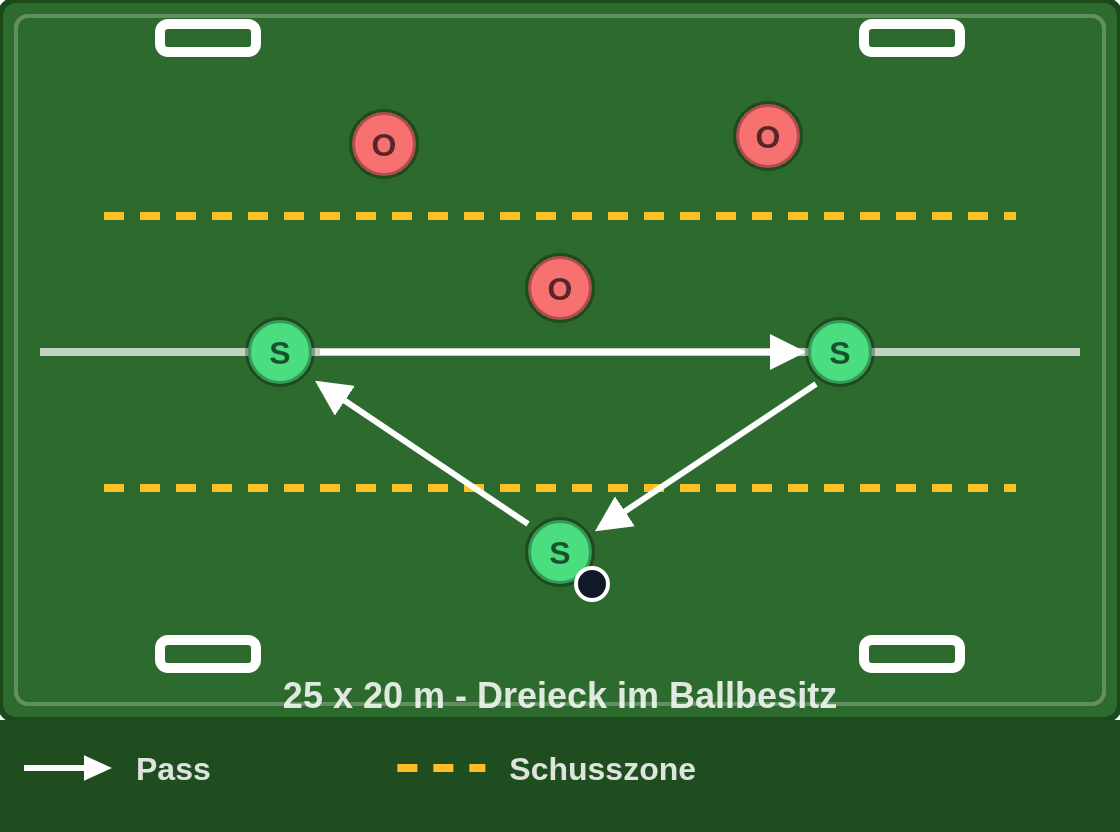
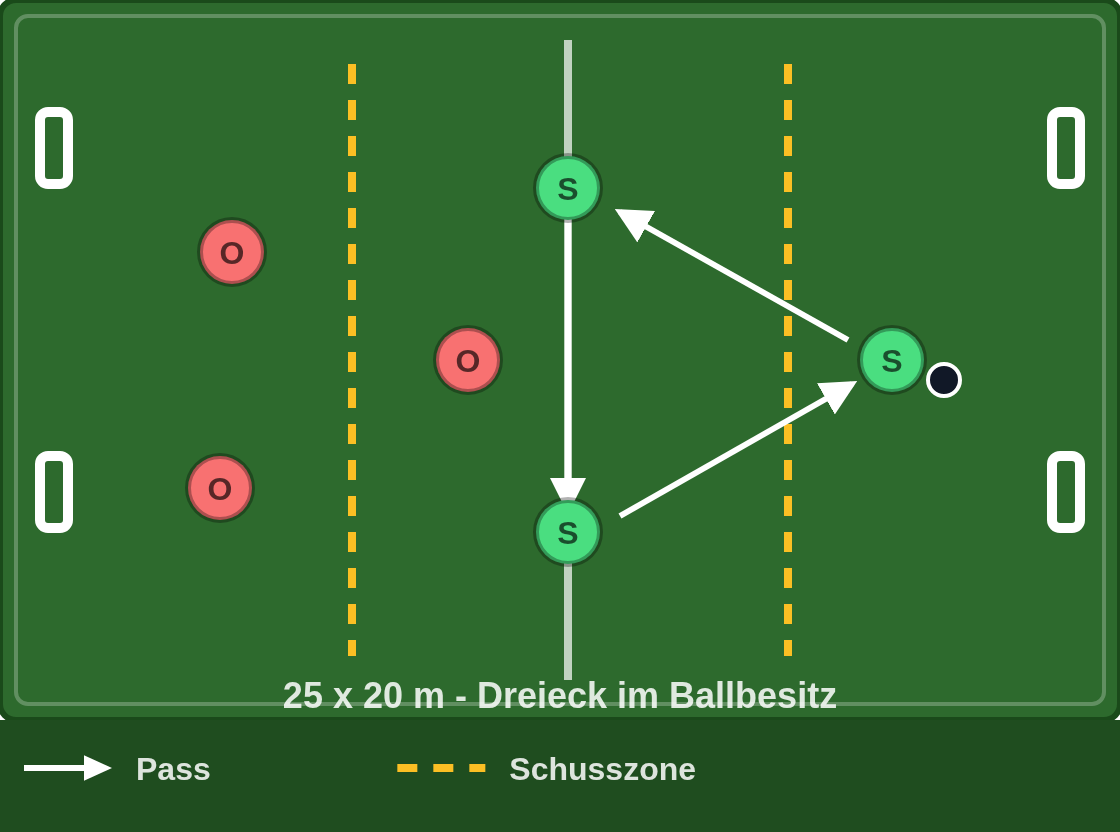
v629: Auftakt ruckelt nicht mehr, Feld 25 × 20 m von Tor zu Tor (#218)
* v629: Auftakt ruckelt nicht mehr, Feld 25 × 20 m von Tor zu Tor

Claude-Session: https://claude.ai/code/session_01MHgn9TPz4fJRqUSv74pZiR

* v629: Lehrgangsskizze Dreieck neu exportiert

Claude-Session: https://claude.ai/code/session_01MHgn9TPz4fJRqUSv74pZiR

---------

diff --git a/intro.js b/intro.js
@@ -35,22 +35,31 @@
       "#adler-intro .ai-ring{position:relative;width:148px;height:148px;display:flex;align-items:center;justify-content:center}"+
       "#adler-intro .ai-ring:before{content:'';position:absolute;inset:0;border-radius:50%;border:3px solid rgba(255,255,255,.55);opacity:0;"+
         "animation:adlerIntroRing .9s ease-out 1.05s 2}"+
-      "#adler-intro .ai-ring{perspective:700px}"+
+      /* v629 PO: „Die Animation in der Eltern-App ruckelt etwas.“ Flug und Landen lagen beide als
+         transform auf dem Bild; zwei solche Animationen auf einem Element kann der Browser nicht an
+         die Grafik abgeben, er rechnet sie dann im Hauptfaden – der in diesen Sekunden die App lädt.
+         Deshalb fliegt das Bild, und die Hülle .ai-flug landet bzw. atmet. Der Schimmer wandert
+         per transform statt per background-position aus demselben Grund. */
+      "#adler-intro .ai-flug{perspective:700px;width:132px;height:132px;border-radius:50%}"+
+      "#adler-intro img{will-change:transform,opacity}"+
       "#adler-intro img{width:132px;height:132px;object-fit:cover;border-radius:50%;background:#fff;box-shadow:0 0 0 4px rgba(255,255,255,.9);filter:drop-shadow(0 10px 24px rgba(0,0,0,.35))}"+
       /* Trainer: Schuss */
-      "#adler-intro.ai-schuss img{animation:adlerIntroFlugSchuss 1.2s cubic-bezier(.15,.7,.3,1) both,adlerIntroAtem 1.3s ease-in-out 1.25s}"+
+      "#adler-intro.ai-schuss img{animation:adlerIntroFlugSchuss 1.2s cubic-bezier(.15,.7,.3,1) both}#adler-intro.ai-schuss .ai-flug{animation:adlerIntroAtem 1.3s ease-in-out 1.25s}"+
       "@keyframes adlerIntroFlugSchuss{0%{transform:scale(.05) rotate(-720deg);opacity:0}20%{opacity:1}82%{transform:scale(1.08) rotate(10deg);opacity:1}92%{transform:scale(.98) rotate(-4deg)}100%{transform:none;opacity:1}}"+
       /* Eltern: Münzwurf */
-      "#adler-intro.ai-muenze img{animation:adlerIntroFlugMuenze 1.25s cubic-bezier(.25,.8,.35,1) both,adlerIntroLanden .4s ease-out 1.25s}"+
+      "#adler-intro.ai-muenze img{animation:adlerIntroFlugMuenze 1.25s cubic-bezier(.25,.8,.35,1) both}#adler-intro.ai-muenze .ai-flug{animation:adlerIntroLanden .4s ease-out 1.25s}"+
       "@keyframes adlerIntroFlugMuenze{0%{transform:translate(-40vw,-30vh) rotateY(0deg) scale(.3);opacity:0}15%{opacity:1}"+
         "55%{transform:translate(-12vw,-22vh) rotateY(500deg) scale(.85)}100%{transform:translate(0,0) rotateY(720deg) scale(1);opacity:1}}"+
       "@keyframes adlerIntroLanden{0%{transform:translateY(0) scale(1)}40%{transform:translateY(7px) scale(.96,1.03)}100%{transform:none}}"+
-      "#adler-intro .ai-glanz{position:absolute;left:8px;top:8px;width:132px;height:132px;border-radius:50%;pointer-events:none;opacity:0;"+
-        "background:linear-gradient(110deg,transparent 35%,rgba(255,255,255,.8) 50%,transparent 65%);background-size:260% 100%;background-position:160% 0}"+
-      "#adler-intro.ai-muenze .ai-glanz{animation:adlerIntroGlanz .8s ease-in-out 1.5s both}"+
-      "@keyframes adlerIntroGlanz{0%{opacity:1;background-position:160% 0}100%{opacity:1;background-position:-60% 0}}"+
+      "#adler-intro .ai-glanz{position:absolute;left:8px;top:8px;width:132px;height:132px;border-radius:50%;pointer-events:none;opacity:0;overflow:hidden}"+
+      "#adler-intro .ai-glanz:after{content:'';position:absolute;top:0;bottom:0;left:0;width:70%;transform:translateX(-110%);"+
+        "background:linear-gradient(110deg,transparent 0%,rgba(255,255,255,.8) 50%,transparent 100%)}"+
+      "#adler-intro.ai-muenze .ai-glanz{animation:adlerIntroGlanz .8s linear 1.5s both}"+
+      "#adler-intro.ai-muenze .ai-glanz:after{animation:adlerIntroGlanzZug .8s ease-in-out 1.5s both}"+
+      "@keyframes adlerIntroGlanz{0%,90%{opacity:1}100%{opacity:0}}"+
+      "@keyframes adlerIntroGlanzZug{from{transform:translateX(-110%)}to{transform:translateX(160%)}}"+
       /* Kinder: Adlerflug mit Federn */
-      "#adler-intro.ai-adler img{animation:adlerIntroFlugAdler 1.35s cubic-bezier(.3,.7,.35,1) both,adlerIntroAtem 1.3s ease-in-out 1.4s}"+
+      "#adler-intro.ai-adler img{animation:adlerIntroFlugAdler 1.35s cubic-bezier(.3,.7,.35,1) both}#adler-intro.ai-adler .ai-flug{animation:adlerIntroAtem 1.3s ease-in-out 1.4s}"+
       "@keyframes adlerIntroFlugAdler{0%{transform:translate(-62vw,12vh) rotate(-200deg) scale(.4);opacity:0}15%{opacity:1}"+
         "50%{transform:translate(-16vw,-16vh) rotate(-60deg) scale(.8)}80%{transform:translate(5vw,3vh) rotate(12deg) scale(1.03)}100%{transform:none;opacity:1}}"+
       "#adler-intro .ai-feder{position:absolute;top:-8vh;font-size:26px;opacity:0;animation:adlerIntroFeder 1.9s ease-in forwards}"+
@@ -63,9 +72,9 @@
       "@keyframes adlerIntroRing{0%{transform:scale(.8);opacity:.9}100%{transform:scale(1.55);opacity:0}}"+
       "@keyframes adlerIntroAtem{50%{transform:scale(1.06)}}"+
       "@keyframes adlerIntroText{from{opacity:0;transform:translateY(8px)}to{opacity:1;transform:none}}"+
-      "@keyframes adlerIntroAus{to{opacity:0;visibility:hidden}}"+
+      "@keyframes adlerIntroAus{to{opacity:0}}"+
       "@media (prefers-reduced-motion: reduce){#adler-intro{animation-delay:.6s}"+
-        "#adler-intro img,#adler-intro .ai-name{animation:none!important;opacity:1}#adler-intro .ai-ring:before,#adler-intro .ai-glanz{animation:none!important}#adler-intro .ai-feder{display:none}}";
+        "#adler-intro img,#adler-intro .ai-name{animation:none!important;opacity:1}#adler-intro .ai-flug,#adler-intro .ai-ring:before,#adler-intro .ai-glanz,#adler-intro .ai-glanz:after{animation:none!important}#adler-intro .ai-feder{display:none}}";
     document.head.appendChild(st);
     var d=document.createElement("div");
     d.id="adler-intro";
@@ -73,7 +82,7 @@
     d.setAttribute("aria-hidden","true");
     var federn="";
     if(art==="adler")[8,22,37,52,66,80,93].forEach(function(x,i){ federn+='<span class="ai-feder" style="left:'+x+'vw;animation-delay:'+(0.35+i*0.13).toFixed(2)+'s">🪶</span>'; });
-    d.innerHTML=federn+'<div class="ai-ring"><img src="logo.png" alt="" onerror="this.style.visibility=\'hidden\'">'+(art==="muenze"?'<div class="ai-glanz"></div>':'')+'</div>'+
+    d.innerHTML=federn+'<div class="ai-ring"><div class="ai-flug"><img src="logo.png" alt="" onerror="this.style.visibility=\'hidden\'"></div>'+(art==="muenze"?'<div class="ai-glanz"></div>':'')+'</div>'+
       '<div class="ai-name">SV Adler Dellbrück<span>'+(art==="adler"?"Kabine":art==="muenze"?"Eltern":"U9")+'</span></div>';
     document.body.insertBefore(d,document.body.firstChild);
     var weg=function(){ d.remove(); st.remove(); document.removeEventListener("pointerdown",weg,true); };

diff --git a/tests/checks/v629-auftakt-fluessig.js b/tests/checks/v629-auftakt-fluessig.js
@@ -1,0 +1,71 @@
+/* v629 · PO: „Die Animation in der Eltern-App ruckelt etwas.“
+
+   Ursache (Mitschnitt, compositeFailed 64): Flug und Landen lagen beide als transform auf dem
+   Wappen. Zwei transform-Animationen auf einem Element gibt der Browser nicht an die Grafik ab –
+   beide liefen im Hauptfaden, der in diesen Sekunden die App lädt. Dazu wanderte der Schimmer per
+   background-position (ebenfalls Hauptfaden), und die Überblendung des ersten Seitenwechsels
+   fror für ihren Schnappschuss ein Bild ein.
+
+   a) In allen drei Apps animiert je Element höchstens eine Animation transform.
+   b) Keine Auftakt-Animation bewegt Eigenschaften, die nicht auf der Grafik laufen
+      (nur transform und opacity).
+   c) Solange der Auftakt steht, startet go() keine Überblendung; danach wieder. */
+"use strict";
+module.exports = async function (h) {
+  const probleme = [], zeilen = [];
+  const s = await h.starten({ supabase: h.supabaseAttrappe({ kader: h.kaderZeilen() }), warten: 300, intro: true });
+  const messen = async pfad => {
+    await s.page.emulateMedia({ reducedMotion: "no-preference" });
+    await s.page.evaluate(() => { try { sessionStorage.removeItem("adler-intro"); } catch (e) {} });
+    await s.page.goto("https://app.test" + pfad, { waitUntil: "commit" });
+    await s.page.waitForSelector("#adler-intro", { state: "attached", timeout: 1500 }).catch(() => {});
+    return s.page.evaluate(() => {
+      const d = document.getElementById("adler-intro"); if (!d) return null;
+      const anims = d.getAnimations({ subtree: true });
+      const jeZiel = new Map(), fremd = [];
+      for (const a of anims) {
+        const e = a.effect, ziel = e.target ? (e.pseudoElement ? e.target.className + e.pseudoElement : e.target) : "?";
+        const props = new Set(); e.getKeyframes().forEach(k => Object.keys(k).forEach(p => { if (!["offset", "easing", "composite", "computedOffset"].includes(p)) props.add(p); }));
+        if (props.has("transform")) jeZiel.set(ziel, (jeZiel.get(ziel) || []).concat(a.animationName));
+        [...props].filter(p => p !== "transform" && p !== "opacity").forEach(p => fremd.push(a.animationName + ":" + p));
+      }
+      return { zahl: anims.length, doppelt: [...jeZiel].filter(([, n]) => n.length > 1).map(([z, n]) => (typeof z === "string" ? z : (z.className || z.tagName)) + " ← " + n.join("+")), fremd };
+    });
+  };
+  for (const pfad of ["/trainer/index.html", "/eltern/index.html", "/kinder/index.html"]) {
+    const r = await messen(pfad);
+    if (!r) { probleme.push(`${pfad}: kein Auftakt`); continue; }
+    if (r.doppelt.length) probleme.push(`a) ${pfad}: mehrere transform-Animationen auf einem Element: ${r.doppelt.join(" · ")}`);
+    if (r.fremd.length) probleme.push(`b) ${pfad}: nicht auf der Grafik: ${[...new Set(r.fremd)].join(", ")}`);
+    zeilen.push(`${pfad.split("/")[1]}: ${r.zahl} Animationen, doppelt ${r.doppelt.length}, fremd ${r.fremd.length}`);
+  }
+  // c) Überblendung
+  await s.page.evaluate(() => { try { sessionStorage.removeItem("adler-intro"); } catch (e) {} });
+  await s.page.goto("https://app.test/trainer/index.html", { waitUntil: "commit" });
+  await s.page.waitForSelector("#adler-intro", { state: "attached", timeout: 1500 }).catch(() => {});
+  await s.page.waitForFunction(() => typeof go === "function" && typeof SECS !== "undefined", null, { timeout: 8000 }).catch(() => {});
+  const c = await s.page.evaluate(() => {
+    if (typeof go !== "function") return { fehlt: true };
+    let n = 0; const orig = document.startViewTransition && document.startViewTransition.bind(document);
+    document.startViewTransition = f => { n++; f && f(); return { finished: Promise.resolve(), ready: Promise.resolve(), updateCallbackDone: Promise.resolve() }; };
+    const key = Object.keys(SECS)[0];
+    const mitIntro = !!document.getElementById("adler-intro");
+    try { go(key); } catch (e) {}
+    const waehrend = n;
+    document.getElementById("adler-intro")?.remove();
+    try { go(key); } catch (e) {}
+    if (orig) document.startViewTransition = orig;
+    return { mitIntro, waehrend, danach: n - waehrend };
+  });
+  if (c.fehlt) probleme.push("c) go() fehlt");
+  else {
+    if (!c.mitIntro) probleme.push("c) Auftakt war beim Seitenwechsel schon weg – Prüfung nicht aussagekräftig");
+    if (c.waehrend) probleme.push(`c) ${c.waehrend}× Überblendung während des Auftakts`);
+    if (c.danach !== 1) probleme.push(`c) nach dem Auftakt ${c.danach}× Überblendung statt 1×`);
+    zeilen.push(`Überblendung während Auftakt ${c.waehrend}, danach ${c.danach}`);
+  }
+  const fe = s.fehler();
+  await s.schliessen();
+  if (fe.length) probleme.push("Konsole: " + fe.slice(0, 2).join(" | "));
+  return h.ergebnis("v629 Auftakt flüssig: Bewegung auf der Grafik, keine Überblendung mittendrin", probleme.length === 0, probleme.length ? probleme.concat(zeilen) : zeilen);
+};

diff --git a/tests/checks/v629-feld-laenge-breite.js b/tests/checks/v629-feld-laenge-breite.js
@@ -1,0 +1,44 @@
+/* v629 · PO: „Feldgröße 25x20m. Was ist Länge und was ist Breite?“ – Kachel „25 m Tor zu Tor“.
+
+   Befund: Die Übung „3 gegen 3 – Dreieck (Grundform)“ stellte das Feld „quer, breiter als tief“
+   auf, ihre Skizze hatte die Minitore oben und unten auf der langen Seite – also 25 m entlang der
+   Torlinie. Üblich und gemeint ist Länge × Breite: 25 m von Tor zu Tor.
+
+   a) Die Übung sagt „25 m von Tor zu Tor“ und nicht mehr „quer“; der Bibliotheks-Stand ist hoch.
+   b) In ihrer Skizze stehen die vier Minitore hochkant an den Schmalseiten (links und rechts).
+   c) Die Feldgrößen-Tabelle am Spieltag sagt, welche Zahl Länge und welche Breite ist. */
+"use strict";
+module.exports = async function (h) {
+  const fs = require("fs"), path = require("path");
+  const probleme = [], zeilen = [];
+  const bib = JSON.parse(fs.readFileSync(path.join(h.REPO, "uebungen/bibliothek.json"), "utf8"));
+  const u = bib.uebungen.find(x => x.name === "3 gegen 3 – Dreieck (Grundform)");
+  if (!u) probleme.push("a) Übung fehlt");
+  else {
+    if (/quer|breiter als tief/.test(u.ablauf)) probleme.push("a) Ablauf stellt das Feld noch quer");
+    if (!/25 m von Tor zu Tor/.test(u.ablauf)) probleme.push("a) Ablauf nennt die Länge nicht");
+    const tore = (u.skizze && u.skizze.tor) || [];
+    const schmal = tore.filter(t => t[2] === "v" && (t[0] < 30 || t[0] > 250));
+    if (tore.length !== 4 || schmal.length !== 4) probleme.push("b) Tore nicht an den Schmalseiten: " + JSON.stringify(tore));
+    zeilen.push(`Tore ${tore.map(t => t[0] + "/" + t[1] + t[2]).join(" ")}`);
+  }
+  if (String(bib.stand) <= "2026-09-25-2") probleme.push(`a) Bibliotheks-Stand „${bib.stand}“ nicht hochgesetzt`);
+
+  const s = await h.starten({ supabase: h.supabaseAttrappe({ kader: h.kaderZeilen() }) });
+  const r = await s.page.evaluate(async () => {
+    for (let i = 0; i < 60 && typeof wissenAuf !== "function"; i++) await new Promise(x => setTimeout(x, 50));
+    if (typeof _wsTabellen !== "function") return { fehlt: true };
+    const d = document.createElement("div"); d.innerHTML = _wsTabellen();
+    return { text: d.textContent.replace(/\s+/g, " ") };
+  });
+  const fe = s.fehler();
+  await s.schliessen();
+  if (r.fehlt) probleme.push("c) _wsTabellen fehlt");
+  else {
+    if (!/Feldgröße \(Länge × Breite\)/.test(r.text)) probleme.push("c) Spaltenkopf ohne „Länge × Breite“");
+    if (!/Länge von Tor zu Tor, die zweite die Breite entlang der Torlinie/.test(r.text)) probleme.push("c) Erklärsatz fehlt");
+    if (!/ca\. 25 × 20 m/.test(r.text)) probleme.push("c) Maß 25 × 20 m verschwunden");
+  }
+  if (fe.length) probleme.push("Konsole: " + fe.slice(0, 2).join(" | "));
+  return h.ergebnis("v629 Feld 25 × 20 m: 25 m von Tor zu Tor, überall gleich", probleme.length === 0, probleme.length ? probleme.concat(zeilen) : zeilen);
+};

diff --git a/md-wissen.js b/md-wissen.js
@@ -52,7 +52,9 @@ const WISSEN_FELDER = [
 /* Woher das jeweilige Maß kommt – ohne diesen Satz wirkt die Tabelle wie eine eigene Vorgabe. */
 const WISSEN_FELDER_HERKUNFT = "Die Bestimmungen geben die Feldgröße nach Altersklasse vor, "
   + "nicht nach Spielform: U8/U9 ca. 25 × 20 m, U10/U11 ca. 30–35 × 25 m. FUNiño und 3+1 sind "
-  + "unsere Formen und tragen unser Maß; 4+1 ist die Form der E-Jugend, dort steht deren Maß.";
+  + "unsere Formen und tragen unser Maß; 4+1 ist die Form der E-Jugend, dort steht deren Maß. "
+  /* v629 PO: „Feldgröße 25x20m. Was ist Länge und was ist Breite?“ – Kachel „25 m Tor zu Tor“. */
+  + "Die erste Zahl ist die Länge von Tor zu Tor, die zweite die Breite entlang der Torlinie.";
 /* Die Antwort auf „wo stehen die Tore genau". Steht NICHT in den Durchführungsbestimmungen –
    die Quelle ist der DFB-Aufbauplan, deshalb wird sie an Ort und Stelle genannt. */
 const WISSEN_TORSTAND = "Die vier Minitore stehen auf den Grundlinien, je zwei pro Seite, "
@@ -150,7 +152,7 @@ function _wsTab(kopf,zeilen){
 function _wsTabellen(){
   const s=_wsTab(["Altersklasse","auf Minitore","auf Jugendtoren (+TW)"],
     WISSEN_SPIELFORMEN.map(x=>({uns:x.uns,z:[x.ak,x.mini,x.jugend]})));
-  const f=_wsTab(["Spielform","Feldgröße","Tore"],
+  const f=_wsTab(["Spielform","Feldgröße (Länge × Breite)","Tore"],
     WISSEN_FELDER.map(x=>({uns:x.uns,z:[x.form,x.mass,x.tor]})));
   const k=_wsTab(["Altersklasse","Feld","mit Torwart","Rotation","gesamt"],
     WISSEN_KADER.map(x=>({uns:x.uns,z:[x.ak,x.feld,x.tw,x.rot,x.ges]})));

diff --git a/views.js b/views.js
@@ -2611,7 +2611,8 @@ function go(key){
   }
   renderSubbar(tabId,key);
   const reduce=window.matchMedia&&window.matchMedia("(prefers-reduced-motion: reduce)").matches;
-  if(document.startViewTransition&&!reduce)document.startViewTransition(()=>_open(key));else _open(key);
+  // v629: Solange der Auftakt läuft, keine Überblendung – sie friert für ihren Schnappschuss ein Bild ein, und das Wappen hakt mitten im Flug.
+  if(document.startViewTransition&&!reduce&&!document.getElementById("adler-intro"))document.startViewTransition(()=>_open(key));else _open(key);
   // Nebenwirkungen (aus altem _svApply/switchTrainSub übernommen)
   if(key==="taktik")requestWakeLock();else releaseWakeLock();
   // Rotations-Timer/Match-Uhr-Tick stoppen beim Verlassen des Spieltags (try/catch: ggf. noch in TDZ beim Start)

diff --git a/sw.js b/sw.js
@@ -1,4 +1,4 @@
-const CACHE="u9i-adler-v628";
+const CACHE="u9i-adler-v629";
 const PRECACHE=[
   "./",
   "./index.html",
